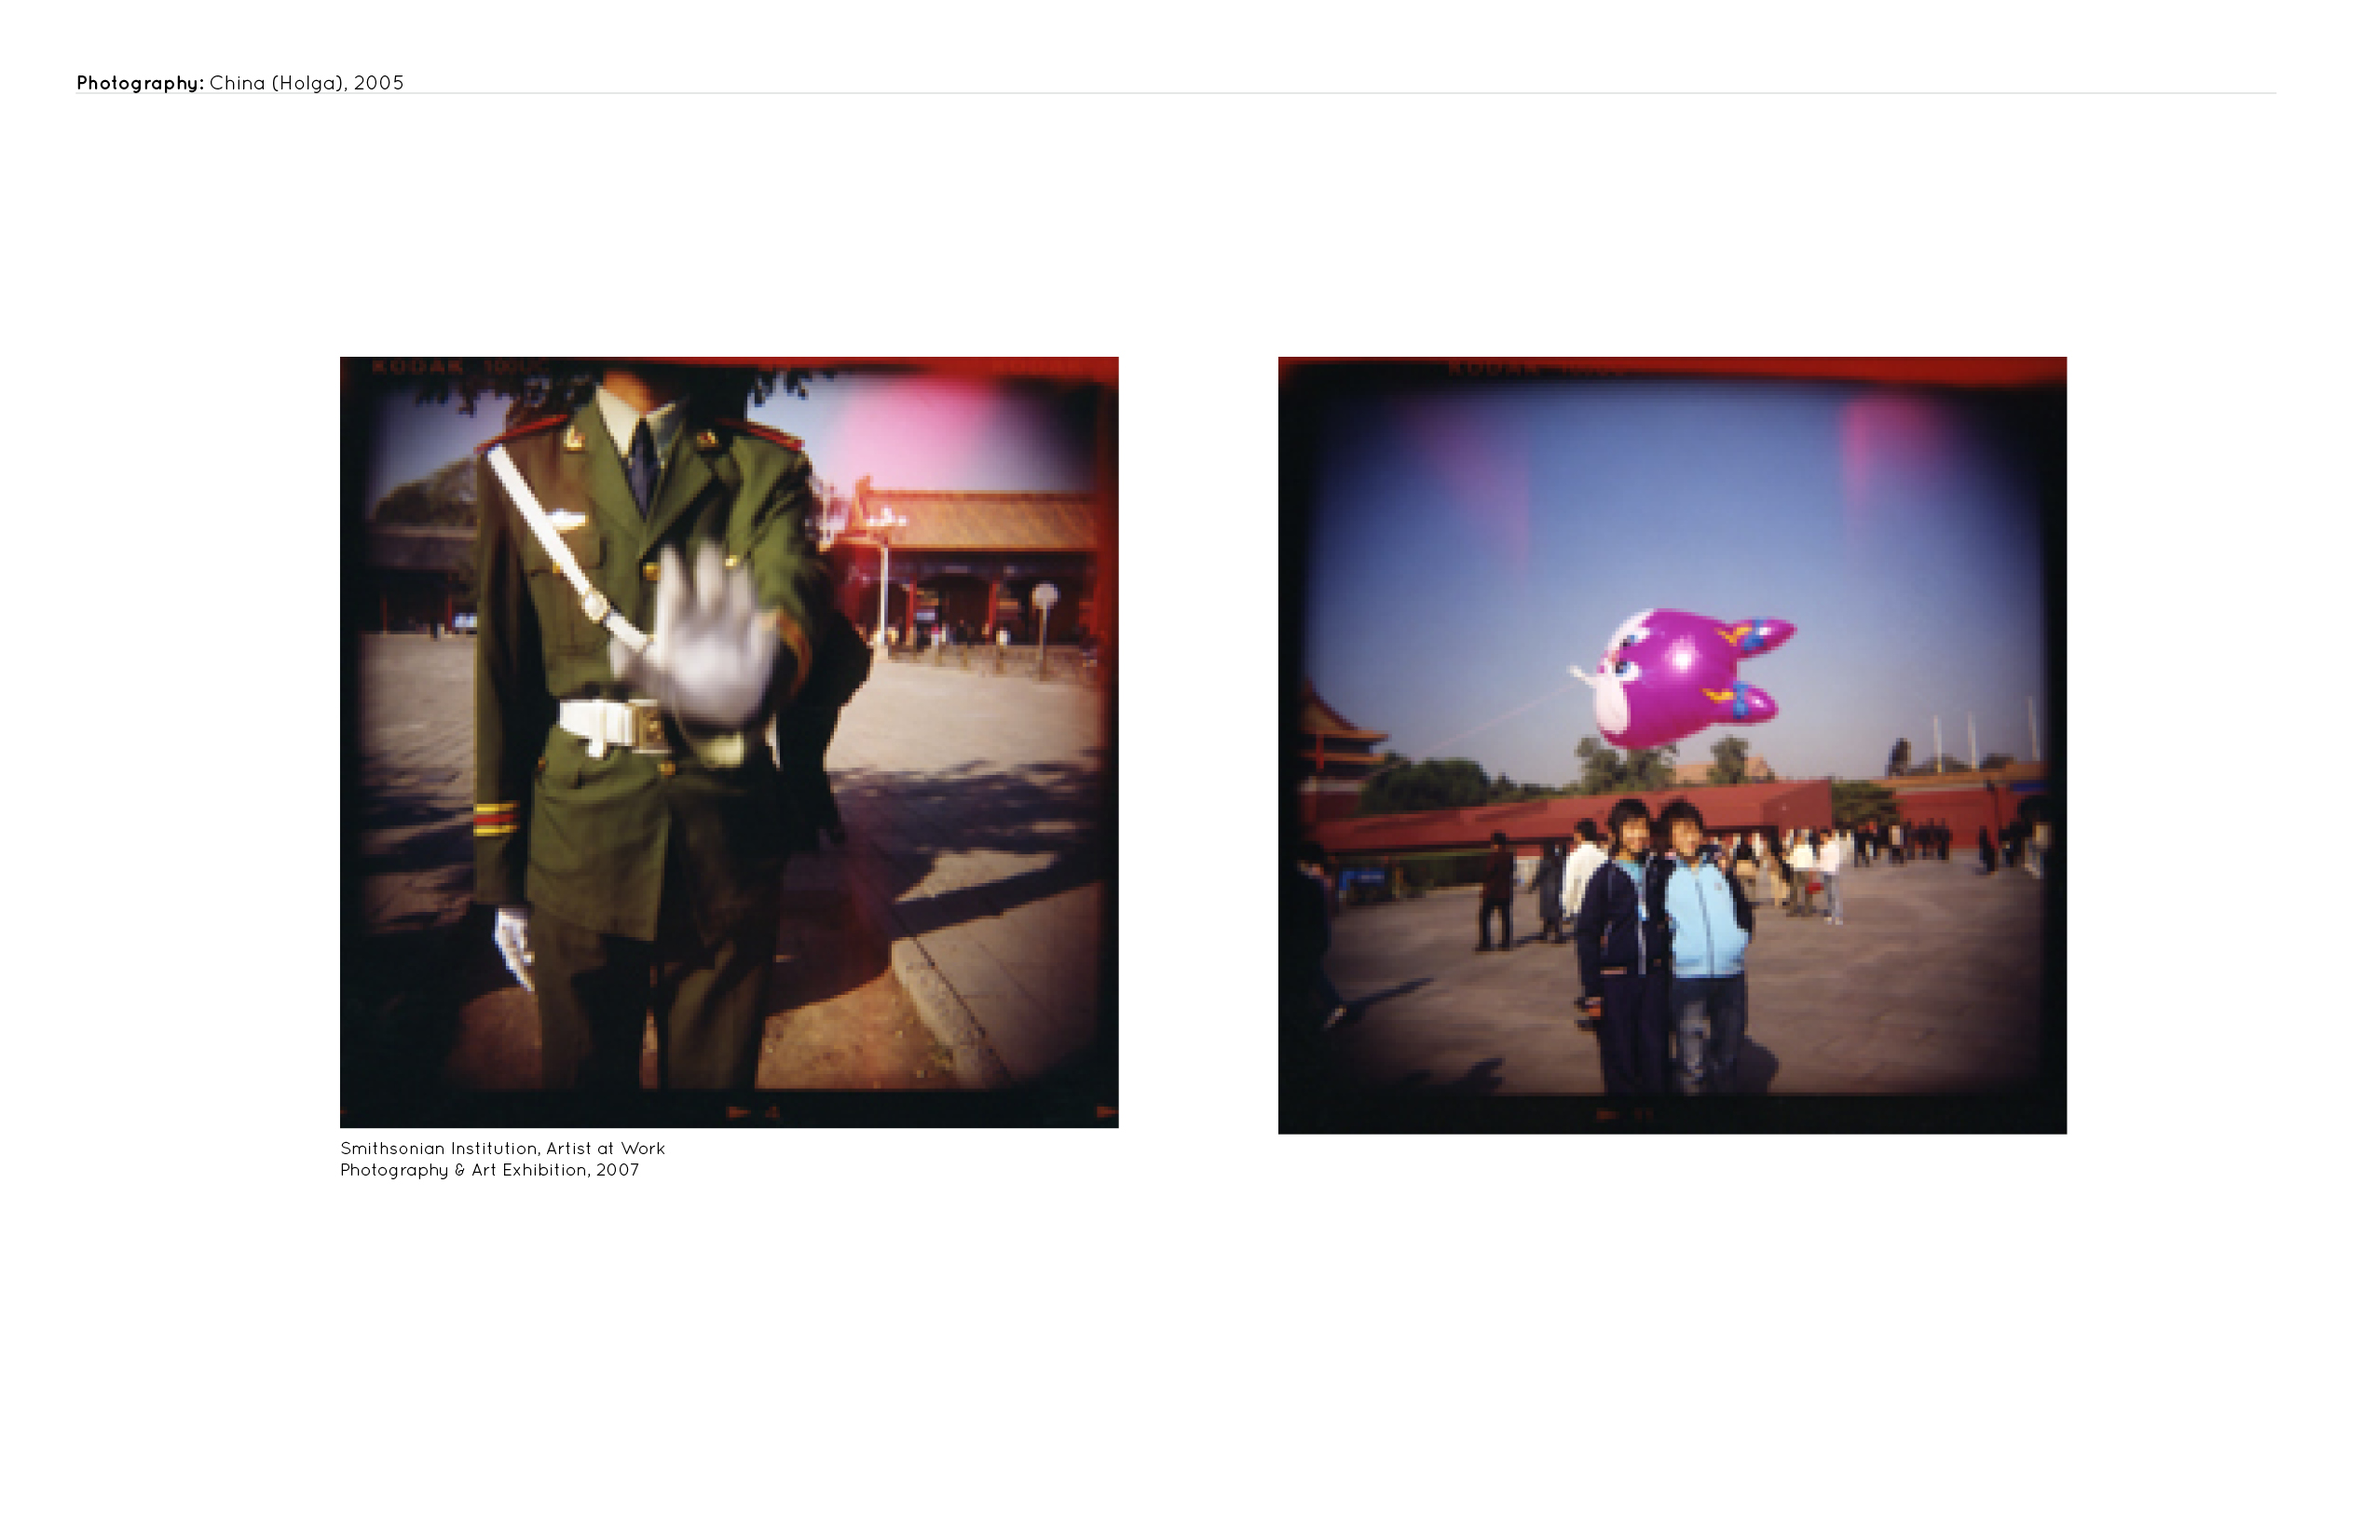
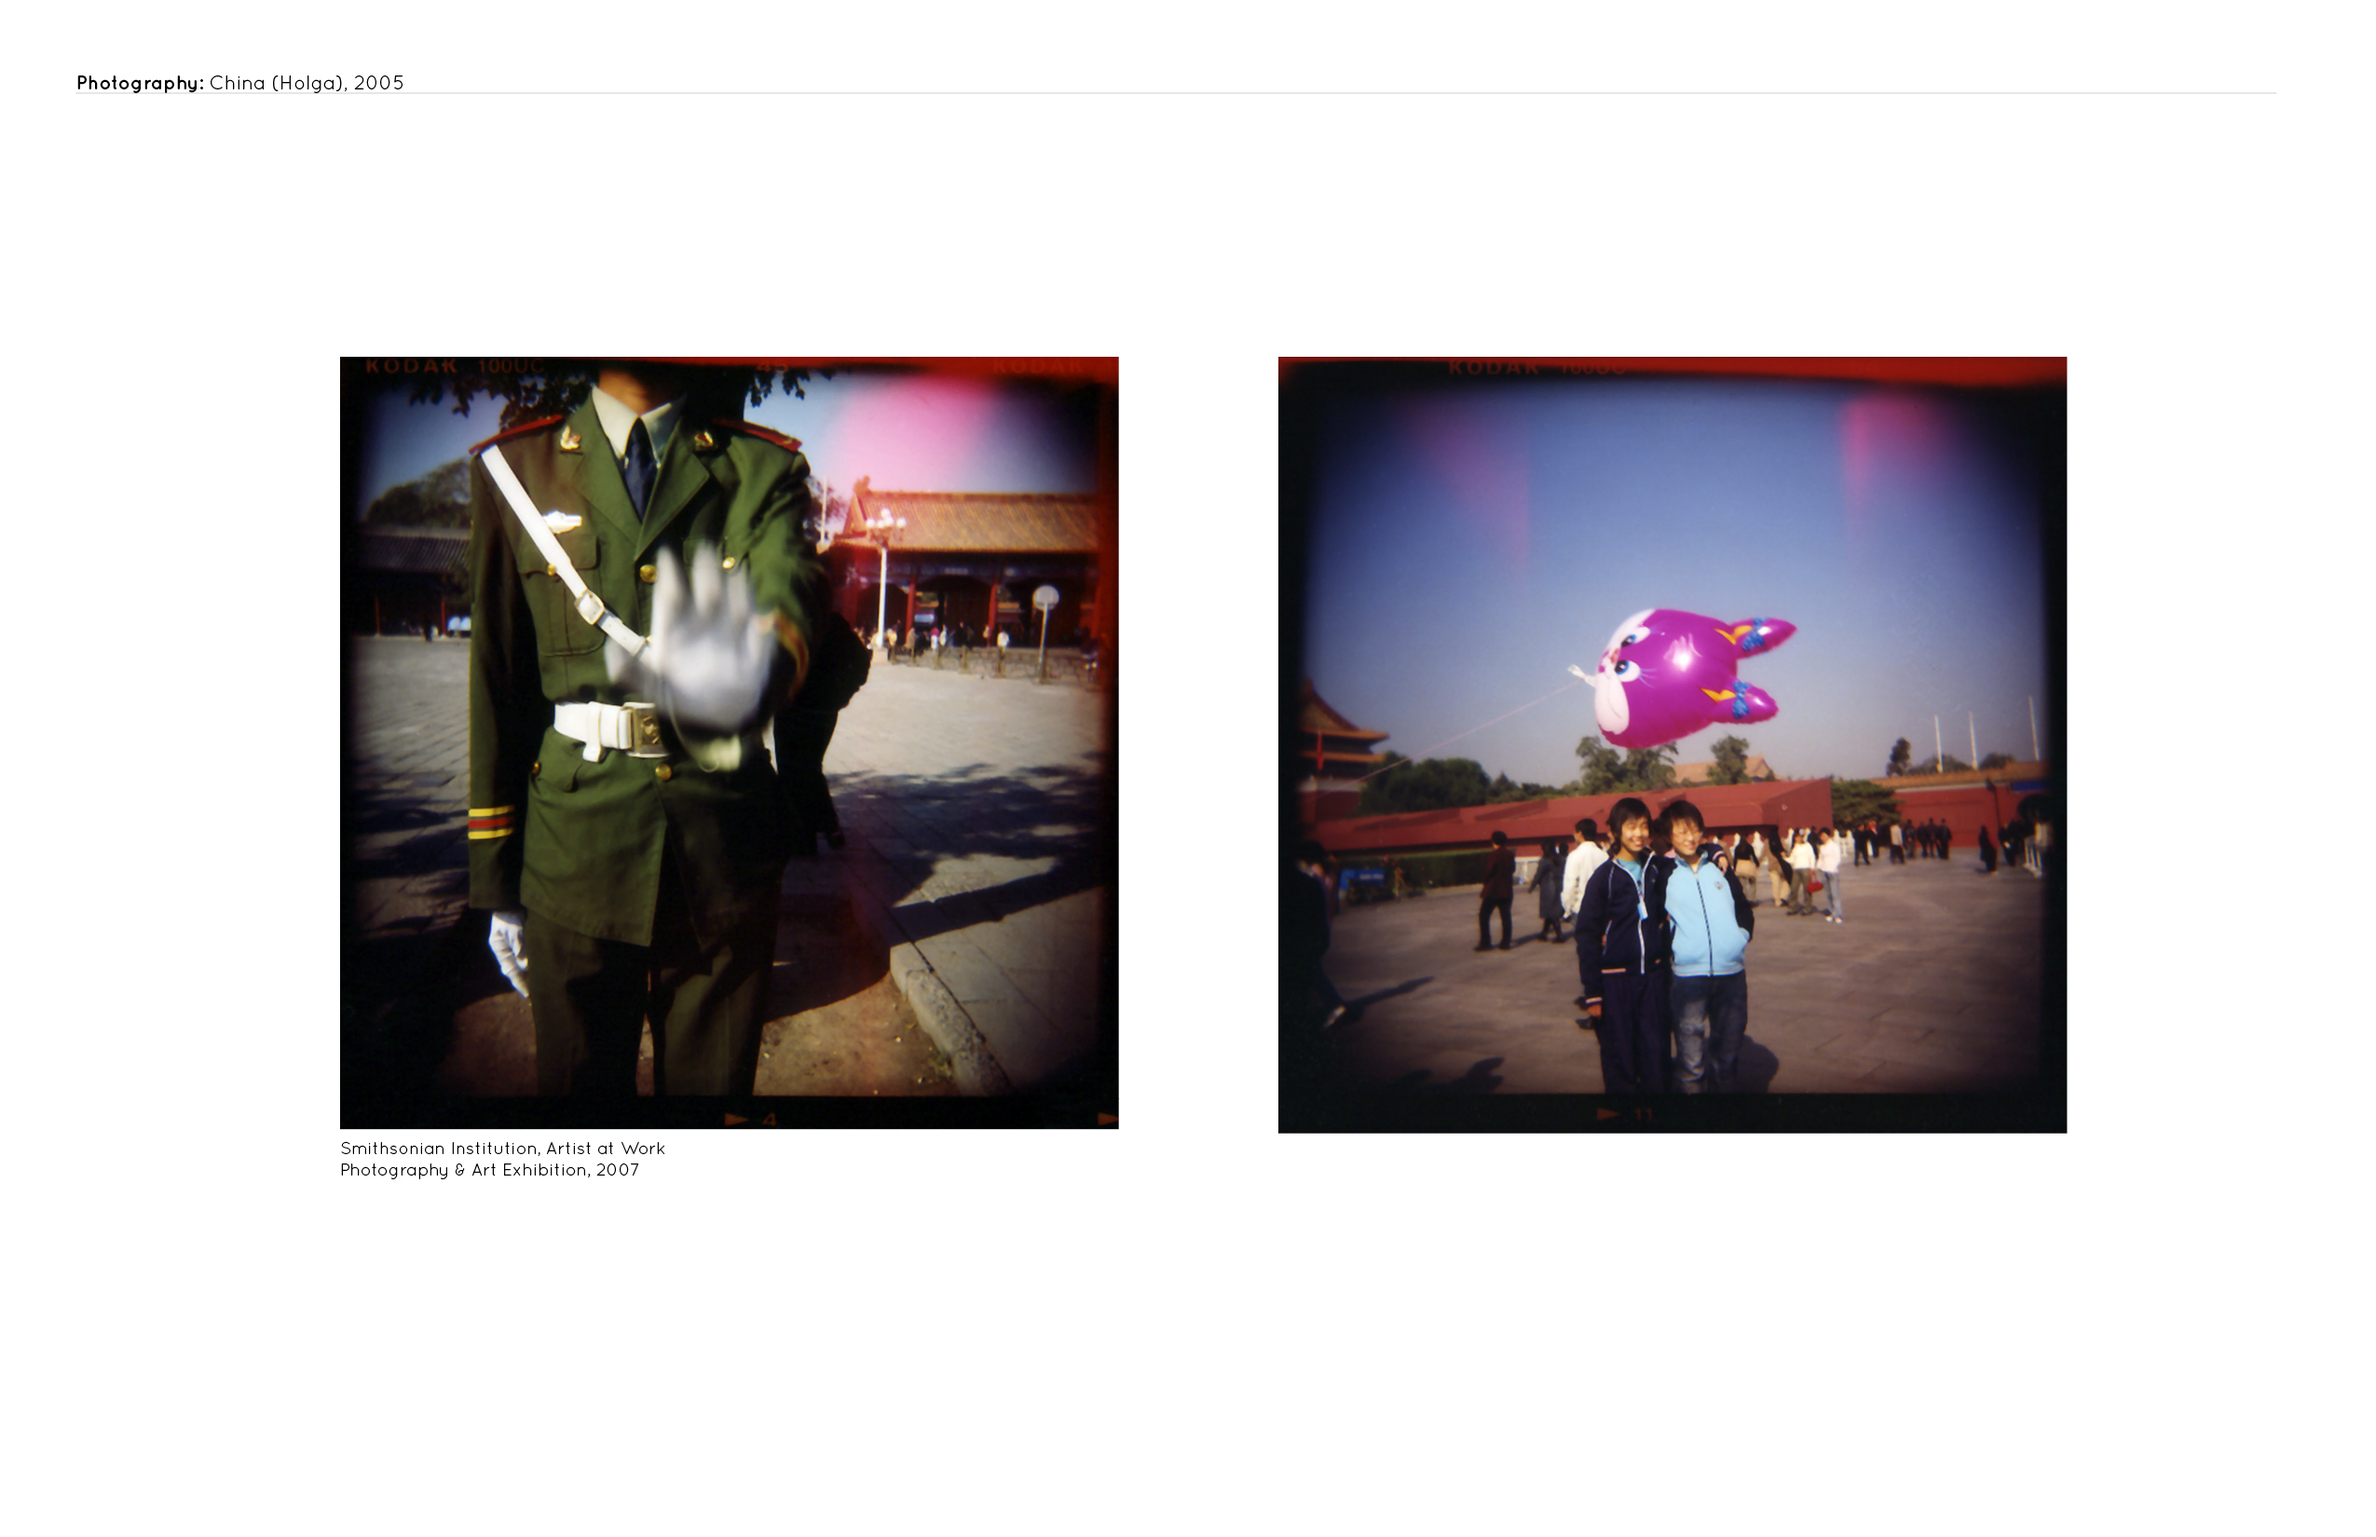
Image & Text Updates Feb 2018
Completed 3rd round of text edits o About Me and updated the China
Holga photos with higher res.

diff --git a/about.html b/about.html
@@ -59,12 +59,12 @@
 
 	<div class="about-me">
 		<h2>About Me</h2>
-		<p><strong>Designer—Exhibits, Graphics and Digital Projects at<br>
-			The National Archives in Washington, DC </strong><br>August 2009–Present</p>
+		<p><strong>Designer—Exhibits, Graphics and Digital Projects <br>
+			at The National Archives in Washington, DC </strong><br>August 2009–Present</p>
 		<p><strong>Pet Peeve:</strong><br>
 			"Can you make this look pretty?"</p>
 		<p><strong>Analog Hobbies:</strong><br>
-			Pointed Pen Calligraphy, Hand Lettering, Paper Marbling, Letterpress, Letter Writing, Knitting, Yarn Dying, Travel Photography</p>
+			Pointed Pen Calligraphy, Hand Lettering, Paper Marbling, Letterpress Printing, Avid Letter Writer, Fiber Arts, Travel Photography</p>
 	</div>
 
 	<!--Resume Area-->
@@ -79,8 +79,9 @@
 						<li>Produces CAD drawings of floor plans, elevations and interactives for conceptual presentations through fabrication bid packages</li>
 						<li>Creates the project schedule, manages and coordinates the exhibitions team to meet project development milestones and deliverable deadlines</li>
 						<li>Produces biddable fabrication documents for production of 3D exhibition components, graphic panels, interactives and exterior signage</li>
-						<li>Prepares RFPs, writes project Scope of Work and detailed exhibit fabrication specifications for exhibit bid pacakges</li>
+						<li>Prepares RFPs, writes project Scope of Work, creates cost estimates and details exhibit fabrication specifications for exhibit bid pacakges</li>
 						<li>Manages project contracting as a COR for contractor bidding process, graphics production, exhibit fabrication and installation</li>
+						<li>Project art direction from concept to final design and through installation</li>
 					</ul>
 				</div>
 				
@@ -91,11 +92,13 @@
 						<li>Designs 2D exhibition graphics (exhibit logos, interpretive graphics, multimedia interfaces, enivromental graphics, promotional marketing materials, exterior banners)</li>
 						<li>Develops exhibit color palettes, typefaces, graphic hierarchies and murals for exhibitions</li>
 						<li>Creates color boards, graphic and material specs for all exhibit projects</li>
+						<li>Conceptualizes and creates illustrations and infographics for exhibit graphics</li>
 						<li>Creates and finalizes all graphic production files based on vendor specifications and proofs final graphics</li>
 						<li>Creates and manages exhibit graphic schedules through each phase of production to meet deadlines and budget requirements</li>
 						<li>Researches content, images and artwork for exhibitions to determine appropriate design solutions within budget</li>
 						<li>Designs and produces project proposal documents and deliverables packages for clients</li>
-						<li>Creates production and graphics schedules and cost estimates for fabrication bid process and management</li>
+						<li>Creates graphic production schedules and cost estimates for fabrication bid process and management</li>
+						<li>Designs print exhibition catalogs, marketing materials and retail merchandising</li>
 					</ul>
 				</div>
 
@@ -107,9 +110,10 @@
 					<ul>
 						<li>Creates digital media concepts for 3D and 2D multimedia exhibit interactive components</li>
 						<li>Creates digital media final production graphics for audio and video exhibit stations</li>
-						<li>Designs and develops downloadable eBooks and ePubs for exhibitions</li>
+						<li>Designs, develops and publishes downloadable eBooks and ePubs for exhibitions</li>
+						<li> Designs graphic collateral for social media campaigns</li>
 						<li>Human Centered Design: conducts visitor interviews, card sorting exercises and analytics research for web projects</li>
-						<li>Designs and develops web and mobile mock-ups for agile design reviews</li>
+						<li>Designs and develops wireframes and mobile mock-ups for agile design reviews</li>
 						<li>Builds websites in HTML and CSS</li>
 					</ul>
 				</div>
@@ -155,14 +159,15 @@
 				
 			<h3>Where You Can Find Me:</h3>
 				
-				<p>I am often taking a class or traveling! Recent adventures have included:</p>
+				<p>I am often taking a class or traveling!<br>
+					Recent adventures have included:</p>
 					<ul>
 						<li>Graphic Design for Filmmaking in Dublin</li>
-						<li>Brush Pen Hand Lettering</li>
+						<li>Modern Brush Pen Lettering</li>
 						<li>Fair Isles Knitting</li>
 						<li>Textile Kettle Dying</li>
 						<li>Calligraphy Letter Connections</li>
-						<li>Wood Block Printing</li>
+						<li>Typography Wood Block Printing</li>
 						<li>Watercolor Basics in NYC</li>
 					</ul>
 
